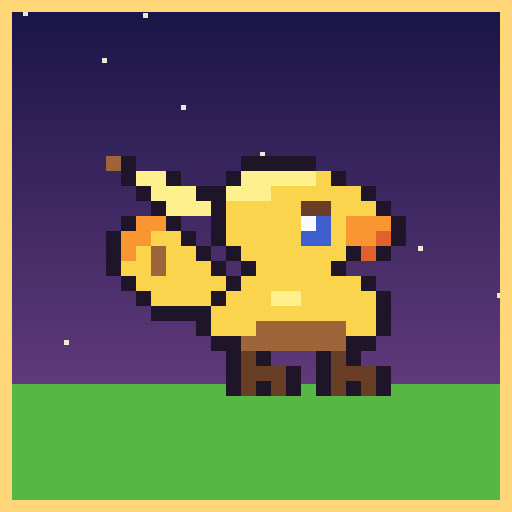
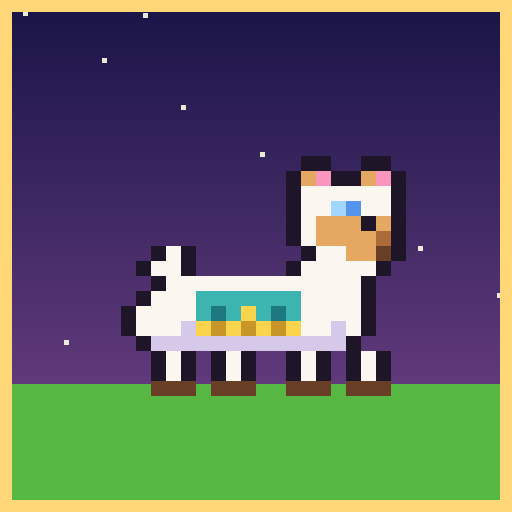
Fantasy Music Companion: original party art
Paca (fantasy alpaca), Thief, horned Warrior, Light Mage, Fire Mage and Fae
replace the previous party sprites; saves written under the old names still
load. Also pre-caches sprites for offline use.

Changed region(s): [[0.1875, 0.2812, 0.8125, 0.7812]]

diff --git a/fantasymusiccompanion/js/traits.js b/fantasymusiccompanion/js/traits.js
@@ -5,8 +5,8 @@ import { C, CA, withAlpha, rnd } from './util.js';
 import { Sprites } from './sprites.js';
 import { Sound } from './sfx.js';
 
-export const TRAIT_OF = { chocobo: 'ItemStorage', whitemage: 'Heal', blackmage: 'Fireball', mithrathief: 'LuckyCoins', warrior: 'Huzzah', moogle: 'StarHat' };
-export const TRAIT_OWNER = { ItemStorage: 'chocobo', Heal: 'whitemage', Fireball: 'blackmage', LuckyCoins: 'mithrathief', Huzzah: 'warrior', StarHat: 'moogle' };
+export const TRAIT_OF = { paca: 'ItemStorage', lightmage: 'Heal', firemage: 'Fireball', thief: 'LuckyCoins', warrior: 'Huzzah', fae: 'StarHat' };
+export const TRAIT_OWNER = { ItemStorage: 'paca', Heal: 'lightmage', Fireball: 'firemage', LuckyCoins: 'thief', Huzzah: 'warrior', StarHat: 'fae' };
 
 export function storageSlots(level) { return 1; }
 export function healInterval(level) { return 10; }
@@ -65,7 +65,7 @@ export function installTraits(P) {
   };
 
   Object.defineProperties(m, {
-    itemStorage: { get() { return this.party.indexOf('chocobo') >= 0 ? storageSlots(this.levelOf('chocobo')) : 0; } },
+    itemStorage: { get() { return this.party.indexOf('paca') >= 0 ? storageSlots(this.levelOf('paca')) : 0; } },
     partyInspired: { get() { return this.inspireLeft > 0; } },
     starHatsOn: { get() { return this.hatLeft > 0; } },
   });
@@ -101,12 +101,12 @@ export function installTraits(P) {
         const target = this._weakestMember();
         const amount = healAmount(level);
         this._applyHeal(target, amount);
-        this.heals.push({ from: 'whitemage', to: target, amount: amount, age: 0 });
+        this.heals.push({ from: 'lightmage', to: target, amount: amount, age: 0 });
         Sound.play('Heal');
         break;
       }
       case 'Fireball': {
-        const r = this._rectOf('blackmage');
+        const r = this._rectOf('firemage');
         this.fireballs.push({ x: r.x + r.w - 2, y: r.y + 5, age: 0 });
         this.castFlash = 0.35;
         Sound.play('FireCast');
@@ -163,7 +163,7 @@ export function installTraits(P) {
       }
       f.y += Math.max(-dt * rate, Math.min(dt * rate, goalY - f.y));
       if (target !== null && f.x >= target.x + 1) {
-        this._damageEnemy(target, this._withHuzzah(fireballDamage(this.levelOf('blackmage'))), true, f.x, f.y);
+        this._damageEnemy(target, this._withHuzzah(fireballDamage(this.levelOf('firemage'))), true, f.x, f.y);
         this.fireballs.splice(i, 1);
         continue;
       }
@@ -255,8 +255,8 @@ export function installTraits(P) {
   };
 
   m._drawCastFlash = function (g) {
-    if (this.castFlash <= 0 || this.party.indexOf('blackmage') < 0) return;
-    const r = this._rectOf('blackmage');
+    if (this.castFlash <= 0 || this.party.indexOf('firemage') < 0) return;
+    const r = this._rectOf('firemage');
     const u = 1 - this.castFlash / 0.35;
     const rad = 2 + Math.trunc(7 * u);
     const cx = r.x + r.w - 1, cy = r.y + 5;
@@ -281,8 +281,8 @@ export function installTraits(P) {
   };
 
   m._drawLuckyFlash = function (g) {
-    if (this.luckyFlash <= 0 || this.party.indexOf('mithrathief') < 0) return;
-    const r = this._rectOf('mithrathief');
+    if (this.luckyFlash <= 0 || this.party.indexOf('thief') < 0) return;
+    const r = this._rectOf('thief');
     const u = 1 - this.luckyFlash / 1.2;
     for (let k = 0; k < 3; k++) {
       const v = u * 1.3 - k * 0.18;

diff --git a/fantasymusiccompanion/js/scene.js b/fantasymusiccompanion/js/scene.js
@@ -110,7 +110,7 @@ export class PixelScene {
     this.mr = 1; this.mg = 1; this.mb = 1; this.gray = 0; this.shade = C(255, 255, 255);
 
     // party and tavern
-    this.party = ['chocobo'];
+    this.party = ['paca'];
     this.enc = 'None';
     this.arrived = false; this.tavernVisible = false; this.doorOffset = 0; this.tavernWorldX = 0;
     this.offer = null; this.joinT = 0; this.move = 1; this.groupLeft = NaN; this.saveTimer = 0;
@@ -956,7 +956,7 @@ export class PixelScene {
     if (this.party.length >= 6) { this._startOldMan(); return; }
     this.enc = 'Waiting';
     if (this.offer === null) {
-      const pool = PARTY.filter(k => k !== 'chocobo' && this.party.indexOf(k) < 0);
+      const pool = PARTY.filter(k => k !== 'paca' && this.party.indexOf(k) < 0);
       if (pool.length === 0) { this.enc = 'None'; return; }
       const picks = [];
       while (picks.length < Math.min(2, pool.length)) { const k = pool[rnd(pool.length)]; if (picks.indexOf(k) < 0) picks.push(k); }
@@ -976,7 +976,7 @@ export class PixelScene {
   }
 
   resetProgress() {
-    this.party = ['chocobo'];
+    this.party = ['paca'];
     this.offer = null;
     this.enc = 'None';
     this.arrived = false; this.tavernVisible = false; this.joinT = 0; this.move = 1; this.groupLeft = NaN;
@@ -1000,10 +1000,10 @@ export class PixelScene {
     try {
       const p = state.split('|');
       if (p.length < 4 || (p[0] !== '1' && p[0] !== '2' && p[0] !== '3')) return;
-      const party = ['chocobo'];
+      const party = ['paca'];
       for (const name of p[1].split(',').filter(s => s)) {
         const k = KIND_FROM_ENUM[name];
-        if (k && k !== 'chocobo' && party.indexOf(k) < 0) party.push(k);
+        if (k && k !== 'paca' && party.indexOf(k) < 0) party.push(k);
       }
       this.party = party;
       this.groupLeft = NaN;
@@ -1023,7 +1023,7 @@ export class PixelScene {
         const offer = [];
         for (const name of p[4].split(',').filter(s => s)) {
           const k = KIND_FROM_ENUM[name];
-          if (k && k !== 'chocobo' && this.party.indexOf(k) < 0 && offer.indexOf(k) < 0) offer.push(k);
+          if (k && k !== 'paca' && this.party.indexOf(k) < 0 && offer.indexOf(k) < 0) offer.push(k);
         }
         if (offer.length === Math.min(2, 6 - this.party.length)) this.offer = offer;
       }
@@ -1104,9 +1104,11 @@ export class PixelScene {
 }
 
 // The exe's save strings name companions with C# enum names.
-export const PARTY_ENUM = { chocobo: 'Chocobo', mithrathief: 'MithraThief', warrior: 'Warrior', whitemage: 'WhiteMage', blackmage: 'BlackMage', moogle: 'Moogle' };
+export const PARTY_ENUM = { paca: 'Paca', thief: 'Thief', warrior: 'Warrior', lightmage: 'LightMage', firemage: 'FireMage', fae: 'Fae' };
 export const KIND_FROM_ENUM = {};
 for (const k of Object.keys(PARTY_ENUM)) KIND_FROM_ENUM[PARTY_ENUM[k]] = k;
+// Saves written before the art rework used the old names; they still load.
+Object.assign(KIND_FROM_ENUM, { Chocobo: 'paca', MithraThief: 'thief', WhiteMage: 'lightmage', BlackMage: 'firemage', Moogle: 'fae' });
 
 import { installCoins } from './coins.js';
 import { installStory } from './story.js';

diff --git a/fantasymusiccompanion/js/enemies.js b/fantasymusiccompanion/js/enemies.js
@@ -1,6 +1,6 @@
 // Enemies and the monster compendium's data. A port of src\PixelEnemies.cs and the definitions in src\EnemySprites.cs.
 // One enemy at a time walks in from the right, closes the gap while the party keeps walking, stops in front of the first member and
-// attacks it (for now only as an animation); the Chocobo pecks and the Black Mage's fireballs fly into it.
+// attacks it (for now only as an animation); the Paca pecks and the Fire Mage's fireballs fly into it.
 
 import { C, CA, withAlpha, rnd } from './util.js';
 import { Sprites } from './sprites.js';
@@ -74,7 +74,7 @@ export function installEnemies(P) {
     Sound.play(ROAR[kind]);   // a warning as it comes into view
   };
 
-  /** Enemy logic in adventuring time: the walk-in, the attack timer, the Chocobo's pecks. */
+  /** Enemy logic in adventuring time: the walk-in, the attack timer, the Paca's pecks. */
   m._advanceEnemies = function (dt, paused) {
     if (paused) return;
     if (this.enemy === null) {
@@ -106,8 +106,8 @@ export function installEnemies(P) {
       Sound.play(attackFx(e.kind, e.attackPose, false));   // the wind-up
     }
 
-    if (this.party.indexOf('chocobo') >= 0) {
-      const level = this.levelOf('chocobo');
+    if (this.party.indexOf('paca') >= 0) {
+      const level = this.levelOf('paca');
       e.peckTimer -= dt;
       if (e.peckTimer <= 0) {
         e.peckTimer += peckInterval(level);

diff --git a/fantasymusiccompanion/js/story.js b/fantasymusiccompanion/js/story.js
@@ -380,8 +380,10 @@ export function installStory(P) {
 
 function px(g, c, x, y) { g.rect(Math.round(x), Math.round(y), 1, 1, c); }
 
-export const ENUM = { chocobo: 'Chocobo', mithrathief: 'MithraThief', warrior: 'Warrior', whitemage: 'WhiteMage', blackmage: 'BlackMage', moogle: 'Moogle' };
+export const ENUM = { paca: 'Paca', thief: 'Thief', warrior: 'Warrior', lightmage: 'LightMage', firemage: 'FireMage', fae: 'Fae' };
 export const FROM_ENUM = {};
 for (const k of Object.keys(ENUM)) FROM_ENUM[ENUM[k]] = k;
-const NAMES = { chocobo: 'Chocobo', mithrathief: 'Mithra Thief', warrior: 'Warrior', whitemage: 'White Mage', blackmage: 'Black Mage', moogle: 'Moogle' };
+// Saves written before the art rework used the old names; they still load.
+Object.assign(FROM_ENUM, { Chocobo: 'paca', MithraThief: 'thief', WhiteMage: 'lightmage', BlackMage: 'firemage', Moogle: 'fae' });
+const NAMES = { paca: 'Paca', thief: 'Thief', warrior: 'Warrior', lightmage: 'Light Mage', firemage: 'Fire Mage', fae: 'Fae' };
 export function displayName(kind) { return NAMES[kind] || kind; }

diff --git a/fantasymusiccompanion/index.html b/fantasymusiccompanion/index.html
@@ -108,7 +108,7 @@
 <dialog id="about">
   <h3>Fantasy Music Companion</h3>
   <p>A pixel-art adventure that marches to your music. Your party grows as you listen to radio; local music makes camp.</p>
-  <p class="muted">Unofficial fan project. Not affiliated with or endorsed by Square Enix or HorizonXI. <em>Final Fantasy</em> is a trademark of Square Enix. No game audio is included or uploaded: the music folder is read in your browser only.</p>
+  <p class="muted">All pixel art is original. Radio stations are independent third-party streams; no music is included or uploaded: the music folder is read in your browser only.</p>
   <p class="muted">Radio: stations that allow it also drive the scene's reactions; others just play. Final Fantasy Radio is http-only and plays in the Windows app.</p>
   <p class="muted">Sound effects: <span id="soundState">&hellip;</span> <button id="soundTest" type="button">Play test sound</button></p>
   <form method="dialog"><button class="primary">Close</button></form>

diff --git a/fantasymusiccompanion/js/coins.js b/fantasymusiccompanion/js/coins.js
@@ -30,8 +30,8 @@ export function installCoins(P) {
         const phase = Math.random() * 6;
         this.coins.push({ worldX: this.scroll + this.lastLw + 8, phase: phase });
         // The Thief's trait: now and then the coin comes with a twin (more, as it levels), hopping along side by side.
-        if (this.party.indexOf('mithrathief') >= 0 && Math.random() < luckyCoinChance(this.levelOf('mithrathief'))) {
-          for (let extra = 1; extra < luckyCoinCount(this.levelOf('mithrathief')); extra++)
+        if (this.party.indexOf('thief') >= 0 && Math.random() < luckyCoinChance(this.levelOf('thief'))) {
+          for (let extra = 1; extra < luckyCoinCount(this.levelOf('thief')); extra++)
             this.coins.push({ worldX: this.scroll + this.lastLw + 8 + extra * 10, phase: phase });
           this.luckyFlash = 1.2;
           Sound.play('LuckyCoins');

diff --git a/fantasymusiccompanion/js/visualizer.js b/fantasymusiccompanion/js/visualizer.js
@@ -9,12 +9,12 @@ import { css } from './util.js';
 
 export const ZOOMED_SCALE = 5;
 const BLURB = {
-  mithrathief: 'Quick, quiet and always one step ahead.',
+  thief: 'Quick, quiet and always one step ahead.',
   warrior: 'A stalwart front-liner who never backs down.',
-  whitemage: 'Keeps the whole party hale and humming.',
-  blackmage: 'Fire, frost and a flair for the dramatic.',
-  moogle: 'Kupo! A lucky charm who never tires.',
-  chocobo: 'Fast, loyal and always out front.',
+  lightmage: 'Keeps the whole party hale and humming.',
+  firemage: 'A short fuse and a flair for the dramatic.',
+  fae: 'A glimmering lucky charm who never tires.',
+  paca: 'Fast, loyal and always out front.',
 };
 const FONT = '"Segoe UI", system-ui, -apple-system, "Helvetica Neue", Arial, sans-serif';
 const PT = 96 / 72;   // points to CSS pixels

diff --git a/fantasymusiccompanion/js/sprites.js b/fantasymusiccompanion/js/sprites.js
@@ -2,8 +2,8 @@
 
 import { flipImage, brightenImage } from './util.js';
 
-export const PARTY = ['chocobo', 'mithrathief', 'warrior', 'whitemage', 'blackmage', 'moogle'];
-export const PARTY_NAMES = { chocobo: 'Chocobo', mithrathief: 'Mithra Thief', warrior: 'Warrior', whitemage: 'White Mage', blackmage: 'Black Mage', moogle: 'Moogle' };
+export const PARTY = ['paca', 'thief', 'warrior', 'lightmage', 'firemage', 'fae'];
+export const PARTY_NAMES = { paca: 'Paca', thief: 'Thief', warrior: 'Warrior', lightmage: 'Light Mage', firemage: 'Fire Mage', fae: 'Fae' };
 
 function load(src) {
   return new Promise((resolve, reject) => {

diff --git a/fantasymusiccompanion/js/main.js b/fantasymusiccompanion/js/main.js
@@ -453,7 +453,7 @@ async function main() {
   });
 
   function restartAdventure() {
-    const typed = prompt('This resets your adventure: your party goes back to just the Chocobo, levels, gold and the compendium are cleared, and the day and season start over.\n\nType RESTART to confirm.');
+    const typed = prompt('This resets your adventure: your party goes back to just the Paca, levels, gold and the compendium are cleared, and the day and season start over.\n\nType RESTART to confirm.');
     if (typed === 'RESTART') { scene.resetProgress(); store.set('save', scene.saveState()); }
   }
 

diff --git a/fantasymusiccompanion/sw.js b/fantasymusiccompanion/sw.js
@@ -1,5 +1,5 @@
 // Caches the app's own files so it opens instantly and works offline. Streams and anything from other sites are never touched.
-const CACHE = 'fmc-v2';
+const CACHE = 'fmc-v3';
 const SHELL = [
   './', 'index.html', 'manifest.webmanifest', 'css/style.css',
   'js/main.js', 'js/scene.js', 'js/util.js', 'js/sprites.js', 'js/sfx.js', 'js/coins.js', 'js/story.js', 'js/traits.js', 'js/enemies.js',
